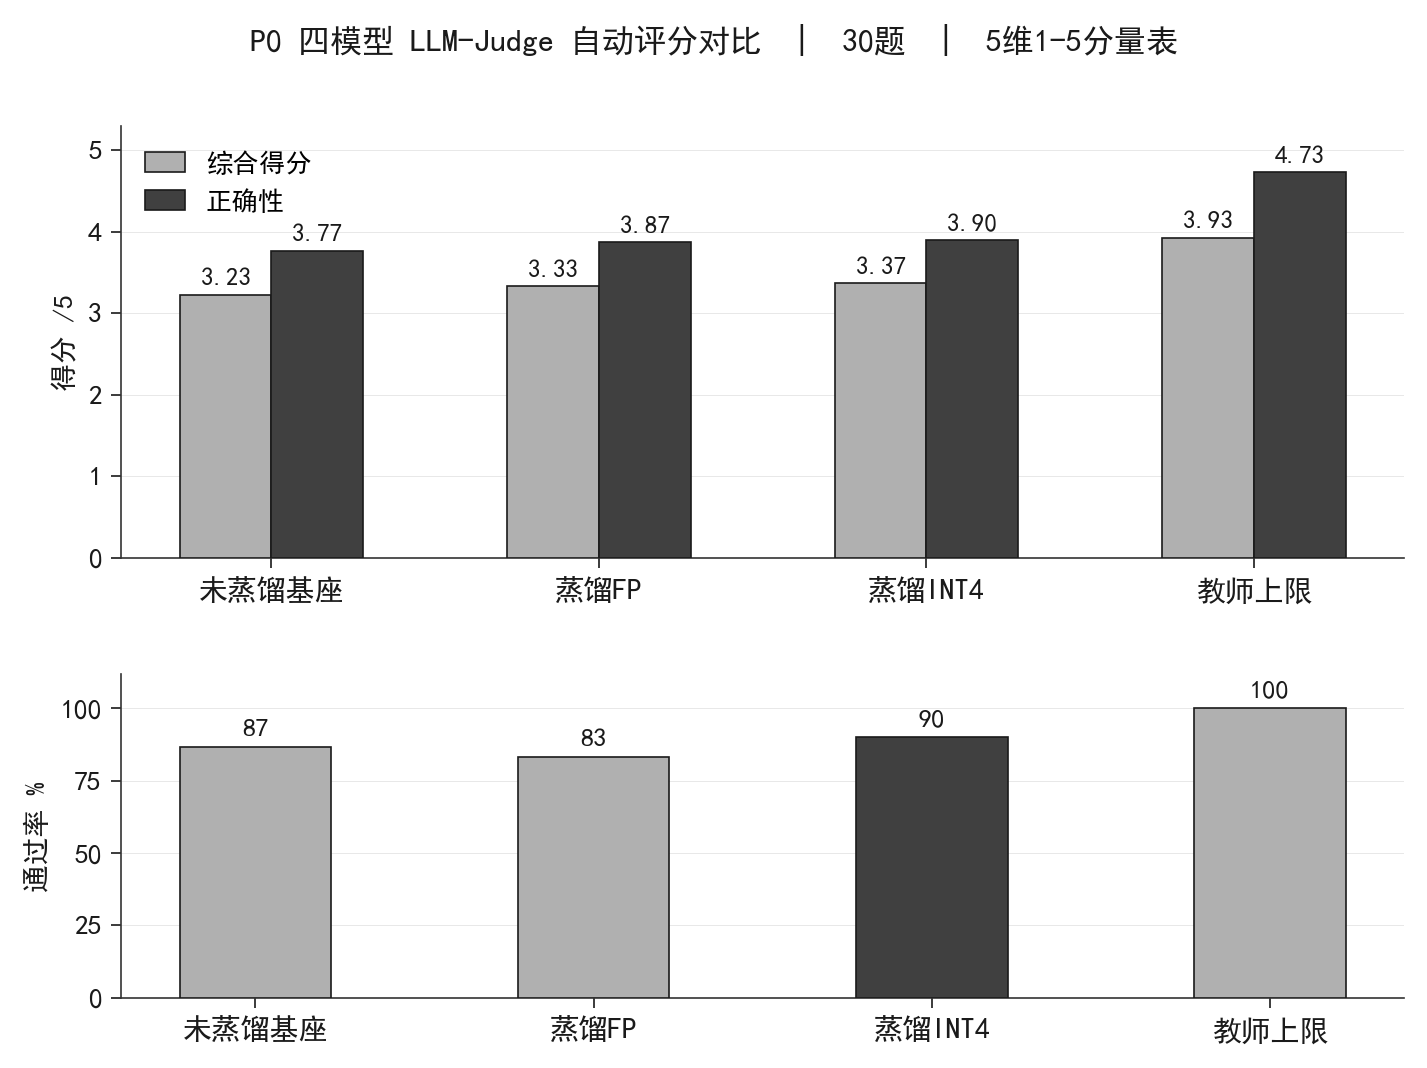
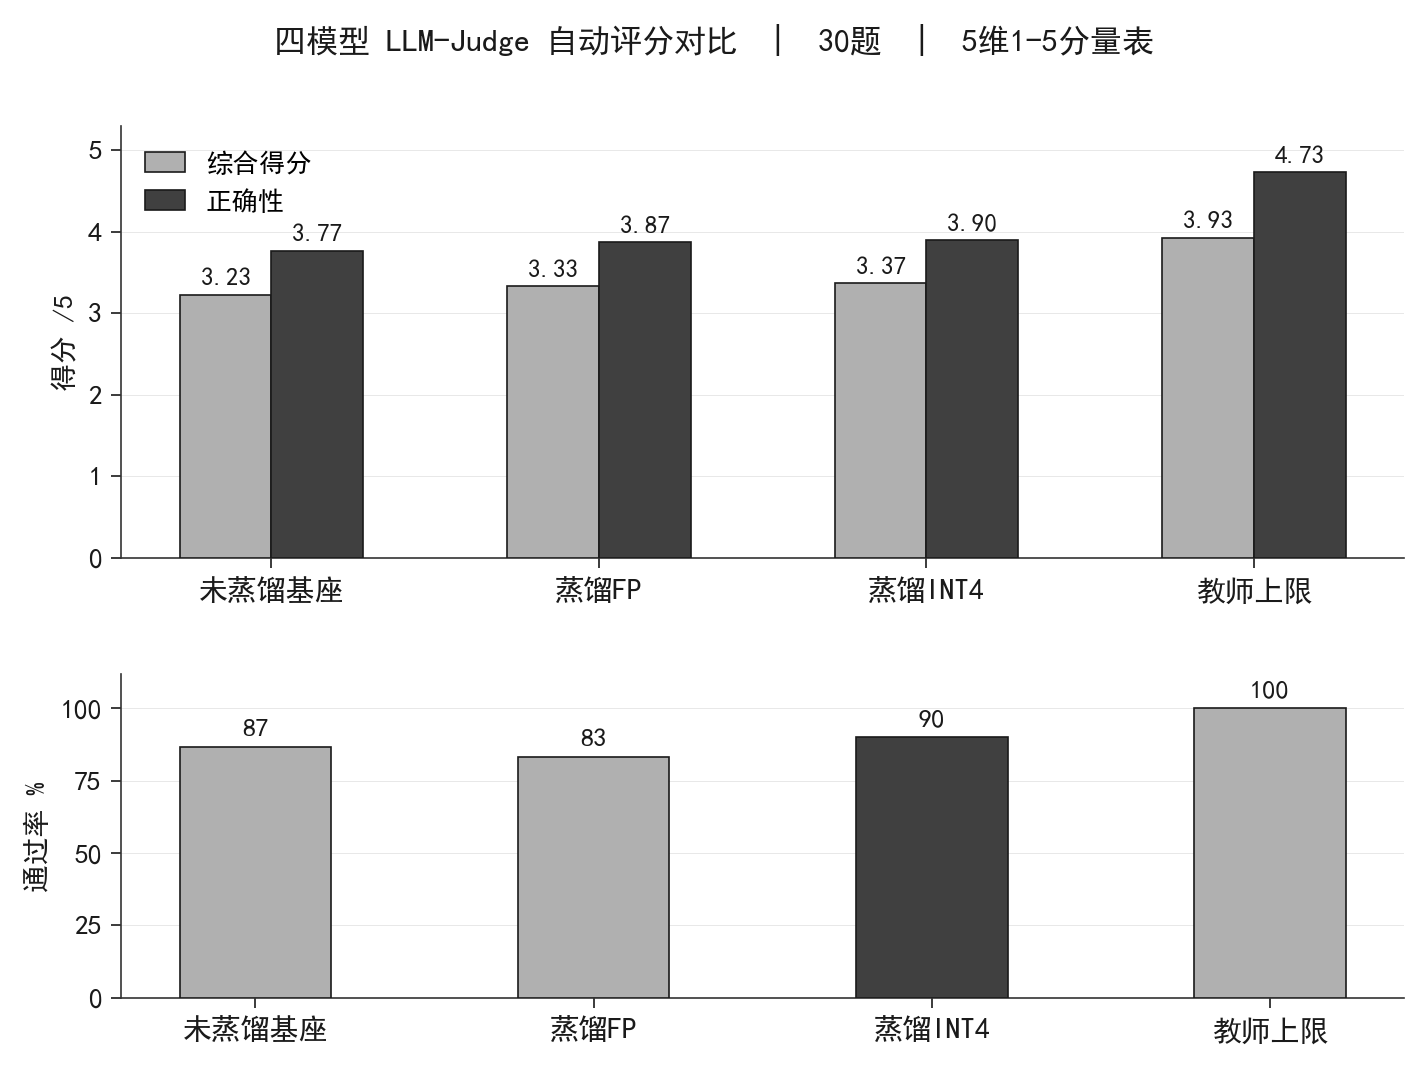
Refine evaluation wording and chart labels

Changed region(s): [[0.185, 0.0, 0.6475, 0.0618], [0.6783, 0.0, 0.8325, 0.0618]]

diff --git a/regen_judge_charts.py b/regen_judge_charts.py
@@ -98,7 +98,7 @@ def fig_four_model():
         a2.text(i, v + 2.5, f"{v:.0f}", ha="center", va="bottom",
                 fontsize=9.5, color=INK, fontweight="bold")
 
-    fig.suptitle("P0 四模型 LLM-Judge 自动评分对比  |  30题  |  5维1-5分量表",
+    fig.suptitle("四模型 LLM-Judge 自动评分对比  |  30题  |  5维1-5分量表",
                  fontsize=11.5, fontweight="bold", color=INK, y=1.01)
     fig.tight_layout(h_pad=2.5)
     fig.savefig(f"{BOARD}/p0_four_model_judge.png", bbox_inches="tight",
@@ -223,7 +223,7 @@ def fig_fp_vs_int4():
                 fontweight="bold",
                     clip_on=False, zorder=10)
 
-    fig.suptitle("P0.5 量化消融: FP vs INT4  |  同一题集 · 同一评委 · 同一约束",
+    fig.suptitle("FP vs INT4 量化对比  |  同一题集 · 同一评委 · 同一约束",
                  fontsize=10, fontweight="bold", color=INK, y=1.07)
     fig.tight_layout(w_pad=3.5)
     fig.savefig(f"{BOARD}/p0_5_fp_vs_int4_judge.png", bbox_inches="tight",